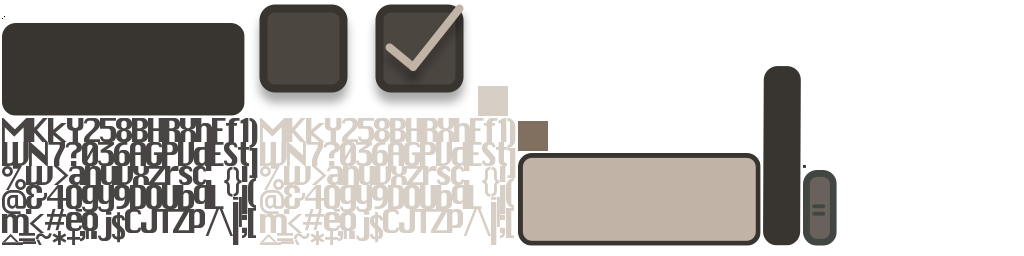
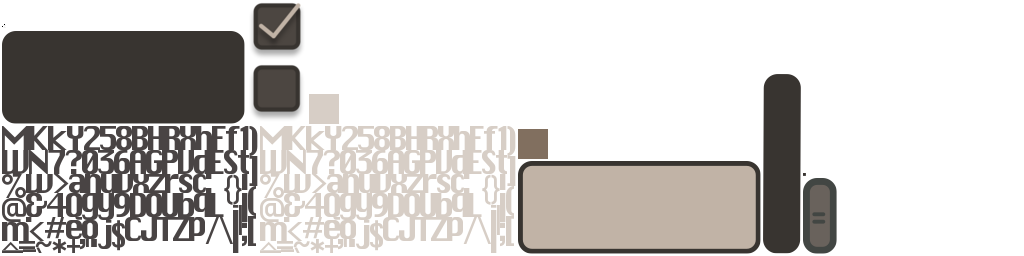
added skin changing logic! veeeeery cool

diff --git a/core/src/feri/rri/yahtzee/screen/SettingsScreen.java b/core/src/feri/rri/yahtzee/screen/SettingsScreen.java
@@ -9,9 +9,11 @@ import com.badlogic.gdx.graphics.g2d.TextureRegion;
 import com.badlogic.gdx.scenes.scene2d.Actor;
 import com.badlogic.gdx.scenes.scene2d.InputEvent;
 import com.badlogic.gdx.scenes.scene2d.Stage;
+import com.badlogic.gdx.scenes.scene2d.actions.Actions;
 import com.badlogic.gdx.scenes.scene2d.ui.ButtonGroup;
 import com.badlogic.gdx.scenes.scene2d.ui.CheckBox;
 import com.badlogic.gdx.scenes.scene2d.ui.Image;
+import com.badlogic.gdx.scenes.scene2d.ui.ImageButton;
 import com.badlogic.gdx.scenes.scene2d.ui.Label;
 import com.badlogic.gdx.scenes.scene2d.ui.Skin;
 import com.badlogic.gdx.scenes.scene2d.ui.Table;
@@ -63,8 +65,8 @@ public class SettingsScreen extends ScreenAdapter {
         labelStyle.background = quitButtonDrawable;
         Image settingsImage = new Image(quitButtonDrawable);
 
-        settingsImage.setSize(300f,60f);
-        settingsImage.setPosition(viewport.getWorldWidth()/ 2 - settingsImage.getWidth() / 2, viewport.getWorldHeight() - settingsImage.getHeight()-30f);
+        settingsImage.setSize(300f, 60f);
+        settingsImage.setPosition(viewport.getWorldWidth() / 2 - settingsImage.getWidth() / 2, viewport.getWorldHeight() - settingsImage.getHeight() - 30f);
 
         stage.addActor(settingsImage);
         Gdx.input.setInputProcessor(stage);
@@ -77,7 +79,7 @@ public class SettingsScreen extends ScreenAdapter {
 
     @Override
     public void render(float delta) {
-        Gdx.gl.glClearColor(165/255f, 150/255f, 136/255f, 1);
+        Gdx.gl.glClearColor(165 / 255f, 150 / 255f, 136 / 255f, 1);
         Gdx.gl.glClear(GL20.GL_COLOR_BUFFER_BIT);
 
         stage.act(delta);
@@ -102,7 +104,7 @@ public class SettingsScreen extends ScreenAdapter {
         TextureRegion backgroundRegion = gameplayAtlas.findRegion(RegionNames.DOTTED_BACKGROUND);
         table.setBackground(new TextureRegionDrawable(backgroundRegion));
 
-        // Create checkboxes for sound and music settings
+
         final CheckBox soundCheckBox = new CheckBox("Sound", uiSkin);
         final CheckBox musicCheckBox = new CheckBox("Music", uiSkin);
 
@@ -141,14 +143,100 @@ public class SettingsScreen extends ScreenAdapter {
         TextureRegion menuBackground = gameplayAtlas.findRegion(RegionNames.SETTINGS_TABLE);
 
         contentTable.setBackground(new TextureRegionDrawable(menuBackground));
-        contentTable.add(soundCheckBox).row();
-        contentTable.add(musicCheckBox).row();
-        contentTable.add(backButton).width(150f).padBottom(40f).height(70f);
+        contentTable.add(skinOptions()).row();
+        contentTable.add(soundCheckBox).padTop(30f).row();
+        contentTable.add(musicCheckBox).padTop(10f).row();
+        contentTable.add(backButton).width(150f).padBottom(40f).padTop(20f).height(70f);
 
         table.add(contentTable).padTop(125f).padRight(100f).padLeft(100f);
         table.center();
         table.setFillParent(true);
         table.pack();
+
+        return table;
+    }
+
+    private Table skinOptions() {
+        Table table = new Table();
+        Skin uiSkin = assetManager.get(AssetDescriptors.UI_SKIN);
+        Label instructionLabel = new Label("Choose a skin: ", uiSkin);
+        table.add(instructionLabel).colspan(3).padBottom(20f).row();
+        final ImageButton skin1Button = new ImageButton(new TextureRegionDrawable(gameplayAtlas.findRegion("shuffle-1")));
+
+        final ImageButton skin2Button = new ImageButton(new TextureRegionDrawable(gameplayAtlas.findRegion("2shuffle-1")));
+        final ImageButton skin3Button = new ImageButton(new TextureRegionDrawable(gameplayAtlas.findRegion("3shuffle-1")));
+        skin1Button.addAction(Actions.alpha(0.5f));
+        skin2Button.addAction(Actions.alpha(0.5f));
+        skin3Button.addAction(Actions.alpha(0.3f));
+        final Label skin1Label = new Label("Old\nClassic", uiSkin, "small");
+        skin1Label.setAlignment(Align.center);
+
+        final Label skin2Label = new Label("Rubik's\nRoll", uiSkin, "small");
+        skin2Label.setAlignment(Align.center);
+
+        final Label skin3Label = new Label("Lovelee\nYahtzee", uiSkin, "small");
+        skin3Label.setAlignment(Align.center);
+        skin1Label.addAction(Actions.alpha(0.5f));
+        skin2Label.addAction(Actions.alpha(0.5f));
+        skin3Label.addAction(Actions.alpha(0.5f));
+
+        if (GameManager.INSTANCE.getSkinPref() == 1) {
+            skin1Button.addAction(Actions.alpha(1f));
+            skin1Label.addAction(Actions.alpha(1f));
+        } else if (GameManager.INSTANCE.getSkinPref() == 2) {
+            skin2Button.addAction(Actions.alpha(1f));
+            skin2Label.addAction(Actions.alpha(1f));
+        } else {
+            skin3Button.addAction(Actions.alpha(1f));
+            skin3Label.addAction(Actions.alpha(1f));
+        }
+        skin1Button.addListener(new ClickListener() {
+            @Override
+            public void clicked(InputEvent event, float x, float y) {
+                skin1Button.addAction(Actions.alpha(1f));
+                skin2Button.addAction(Actions.alpha(0.5f));
+                skin3Button.addAction(Actions.alpha(0.3f));
+                skin1Label.addAction(Actions.alpha(1f));
+                skin2Label.addAction(Actions.alpha(0.5f));
+                skin3Label.addAction(Actions.alpha(0.5f));
+                RegionNames.setSkin1();
+                GameManager.INSTANCE.setSkinPref(1);
+            }
+        });
+        skin2Button.addListener(new ClickListener() {
+            @Override
+            public void clicked(InputEvent event, float x, float y) {
+                skin1Button.addAction(Actions.alpha(0.5f));
+                skin2Button.addAction(Actions.alpha(1f));
+                skin3Button.addAction(Actions.alpha(0.3f));
+                skin1Label.addAction(Actions.alpha(0.5f));
+                skin2Label.addAction(Actions.alpha(1f));
+                skin3Label.addAction(Actions.alpha(0.5f));
+                RegionNames.setSkin2();
+                GameManager.INSTANCE.setSkinPref(2);
+            }
+        });
+        skin3Button.addListener(new ClickListener() {
+            @Override
+            public void clicked(InputEvent event, float x, float y) {
+                skin1Button.addAction(Actions.alpha(0.5f));
+                skin2Button.addAction(Actions.alpha(0.5f));
+                skin3Button.addAction(Actions.alpha(1f));
+                skin1Label.addAction(Actions.alpha(0.5f));
+                skin2Label.addAction(Actions.alpha(0.5f));
+                skin3Label.addAction(Actions.alpha(1f));
+                RegionNames.setSkin3();
+                GameManager.INSTANCE.setSkinPref(3);
+            }
+        });
+
+        table.add(skin1Button).padRight(20).height(80f).width(80f);
+        table.add(skin2Button).padRight(20).height(80f).width(80f);
+        table.add(skin3Button).height(80f).width(80f).row();
+
+        table.add(skin1Label).padRight(40).padTop(10f);
+        table.add(skin2Label).padRight(40).padTop(10f);
+        table.add(skin3Label).padTop(20f).row();
 
         return table;
     }

diff --git a/core/src/feri/rri/yahtzee/common/GameManager.java b/core/src/feri/rri/yahtzee/common/GameManager.java
@@ -12,11 +12,13 @@ public class GameManager {
 
     private static final String SOUND_PREF = "soundPref";
     private static final String MUSIC_PREF = "musicPref";
+    private static final String SKIN_PREF = "skinPref";
 
     private final Preferences PREFS;
     private Boolean soundOn = true;
     private Boolean musicOn = true;
     private Music backgroundMusic;
+    private Integer _skin;
 
     public void setBackgroundMusic(Music backgroundMusic) {
         this.backgroundMusic = backgroundMusic;
@@ -32,6 +34,7 @@ public class GameManager {
         PREFS = Gdx.app.getPreferences(Yahtzee.class.getSimpleName());
         musicOn = PREFS.getBoolean(MUSIC_PREF,true);
         soundOn = PREFS.getBoolean(SOUND_PREF,true);
+        _skin = PREFS.getInteger(SKIN_PREF,1);
     }
 
 
@@ -55,4 +58,11 @@ public class GameManager {
         PREFS.flush();
     }
 
+    public Integer getSkinPref(){return _skin;}
+
+    public void setSkinPref(Integer skin) {
+        _skin = skin;
+        PREFS.putInteger(SKIN_PREF, skin);
+        PREFS.flush();
+    }
 }

diff --git a/core/src/feri/rri/yahtzee/screen/GameScreen.java b/core/src/feri/rri/yahtzee/screen/GameScreen.java
@@ -104,7 +104,6 @@ public class GameScreen extends ScreenAdapter {
 
     @Override
     public void show() {
-        RegionNames.setSkin2();
         viewport = new FitViewport(GameConfig.WORLD_WIDTH, GameConfig.WORLD_HEIGHT);
         hudViewport = new FitViewport(GameConfig.HUD_WIDTH, GameConfig.HUD_HEIGHT);
 
